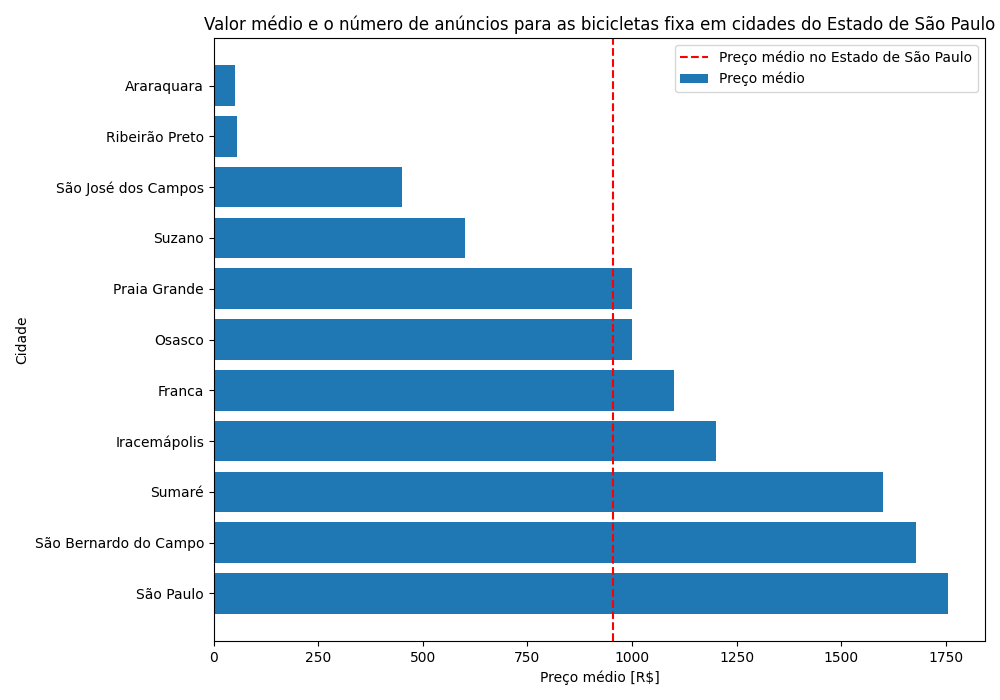
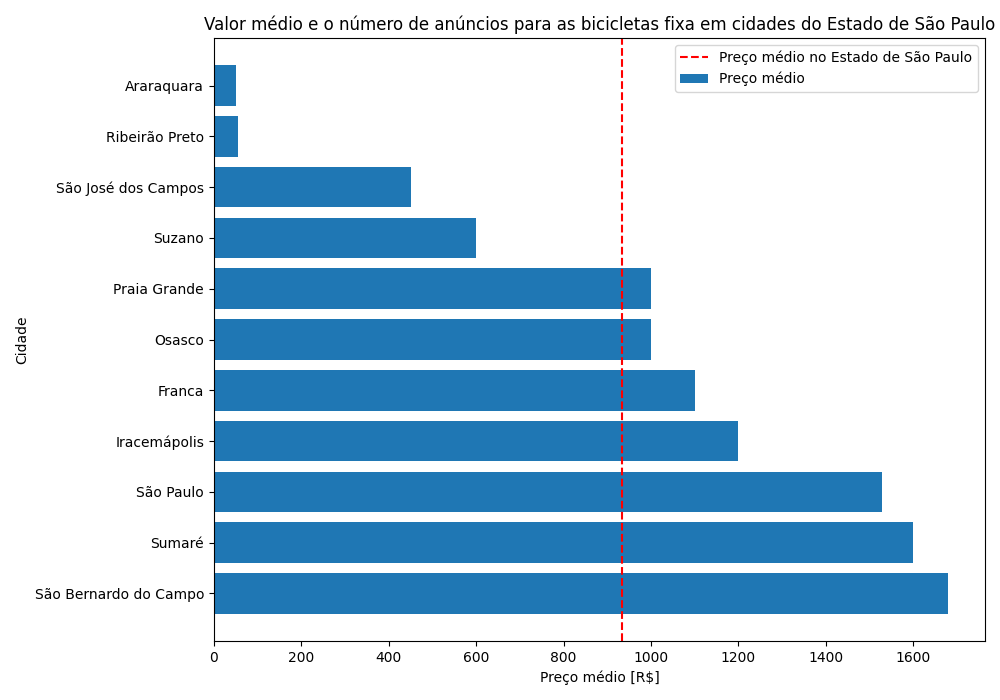
update on bot to find the ads

diff --git a/analysis_bikes.py b/analysis_bikes.py
@@ -8,7 +8,6 @@ import pandas as pd
 def clean_data(name = ""):
 
     data = pd.read_csv(name, index_col='Unnamed: 0',header=0)
-        # 'str','str','int','str','float','str','str','str','str'
 
     data = data.drop_duplicates(keep='last').dropna()
 
@@ -42,9 +41,9 @@ data, name = clean_data('busca_bike_dados.csv')
 
 
 # clean data
-# 'raf','sprinter','8bike', 'fixie', 'nexus','tetrapode'
-related_words = ['8bike', 'fixie', 'nexus','tetrapode', 'alleycat','cernunnos','chandan','fixed','aventon','riva','cinelli','single', 'urbana', 'bike fixa', 'fixie', 'nexus','tetrapode']
-# # related_words = ['bicicleta','elétrica','e-moving','sense', 'breeze','LEV']
+
+related_words = ['bike fixa','las magrelas', 'raf','raf bike','sprinter','8bike', 'fixie', 'nexus','tetrapode', 'alleycat','cernunnos','chandan','fixed','aventon','riva','cinelli','single']
+
 data_clean = related_res(data, name, related_words)
 
 data_clean['valueBike'] = pd.to_numeric(data_clean['valueBike'].values)

diff --git a/scrap_olx_bike_v1_1.py b/scrap_olx_bike_v1_1.py
@@ -200,7 +200,7 @@ busca = scrap_olx_ads()
 
 for i in ["SP"]:
 
-    for j in ['']:
+    for j in ['bike%20fixa','las%20magrelas', 'raf','raf%20bike','sprinter','8bike', 'fixie', 'nexus','tetrapode', 'alleycat','cernunnos','chandan','fixed','aventon','riva','cinelli','single']:
 
         print(j)
         reg = "0"
